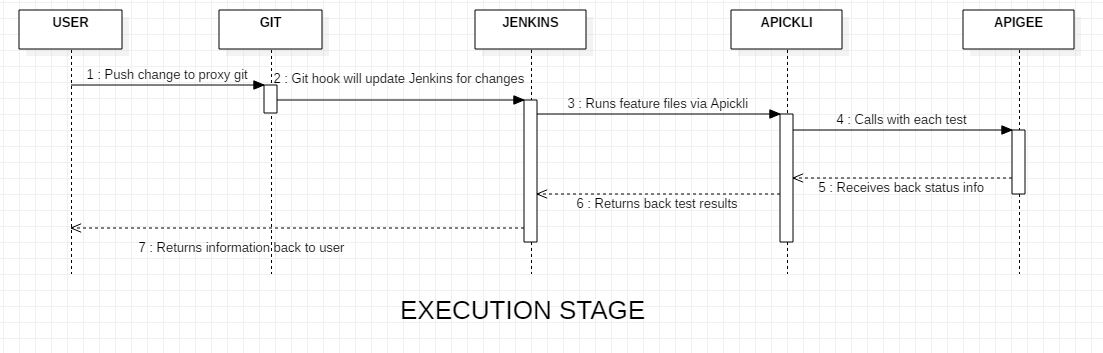
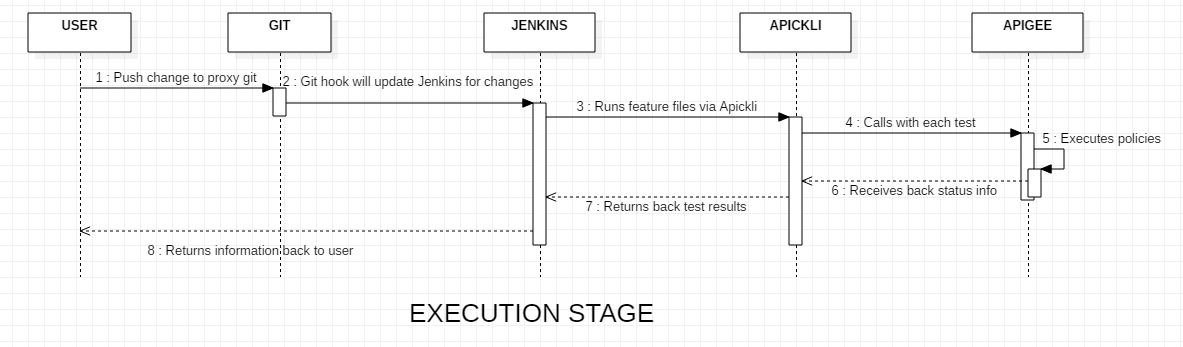
Updated Stage documentation

diff --git a/asvp-server/controller.js b/asvp-server/controller.js
@@ -56,6 +56,7 @@ router.get('/run', (req, res) => {
   if (req.query.id != null){
     var id = req.query.id;
   } else{
+    // No request was included
     return res.status(400).json({
       "Status Code": "400 BAD REQUEST",
       "Error": "No ID was included in the request. Please refer to the documentation for more help.",
@@ -65,9 +66,11 @@ router.get('/run', (req, res) => {
 
   // Run Cucumber-js on the feature file in the folder per given ID
   let featureFilePath = `output/${id}/features/test.feature`;
+
+  // Check if feature file exists in folder of requested user
   if (fs.existsSync(`${__dirname}/${featureFilePath}`)){
     try {
-      console.log(`Executing Cucumber tests for ID ${id} @ file location ${featureFilePath}`)
+      console.log(`Executing --> tests for ID ${id} @ ${featureFilePath}`)
       var script = exec(`cd ${__dirname} && npx cucumber-js ${featureFilePath} -f json:output/${id}/report.json`,
         (error, stdout, stderr) =>{
           res.sendFile(`${__dirname}/output/${id}/report.json`);
@@ -81,6 +84,7 @@ router.get('/run', (req, res) => {
       console.log(err)
     }
   } else {
+    // No feature file was found
     return res.status(400).json({
       "Status Code": "400 BAD REQUEST",
       "Error": `No feature file was found for the given ID (${id}). Please generate the test file first and receive your ID. Please refer to the documentation for more help`,
@@ -132,7 +136,7 @@ router.post('/generate', (req, res) =>{
   // Destructure the Given, When, and Then sections of the premade Gherkin lines from a file on the server
   let {Given, When, Then} = JSON.parse(fs.readFileSync(__dirname+'/gherkin-tests.json'));
 
-  // The config class is used to store all configuration data
+  // The config class is used to store all test configuration data
   class Config {
     constructor() {
       this.proxyURL = "";

diff --git a/README.md b/README.md
@@ -80,34 +80,42 @@ Below is a diagram that illustrates two main steps in the overall flow amongst t
  <p align="center">
  <img src="https://github.com/rpierz-pk/asvp/blob/master/asvp-server/images/test-generation-stage-uml.png?raw=true">
  </p>
+
 - Step 1:
-The user enters in information into a provided UI. This narrows down the users choice to only necessary information.
+    The user enters general information about the proxy they wish to test (i.e. Proxy URL and base path), the parameters that the server will include with every request, the endpoint to send the request to alongside the HTTP method, as well as the expected response for each test from the Apigee proxy. 
 - Step 2: 
-	The UI makes a POST request containing the information provided by the user to the NodeJS server to be furthered processed.
+	The UI makes a POST request containing the test configuration data and user ID to the NodeJS backend server.
 - Step 3:
-	The NodeJS server generates the init.js file based on information provided by the end users.
+	The NodeJS server bootstraps the folder structure necessary to run cucumber tests, then writes the ProxyURL from the incoming request to an initialization file (init.js)
 - Step 4:
-	The NodeJS server parses the data contained in the request and collates the necessary lines of Gherkin text from a JSON file to create a feature file.
+	The NodeJS server parses the configuration contained in the incoming request and collates the necessary lines of Gherkin text from a JSON file, replacing the placeholder values with configuration from the incoming request, to create a feature file.
 - Step 5:
 	This step may not be implemented.
+- Step 6:
+    The NodeJS server sends a response back to the UI containing the ID of the user as well as the text of the feature file that the server created.
 
 
 ## Execution Stage
  <p align="center">
  <img src="https://github.com/rpierz-pk/asvp/blob/master/asvp-server/images/execution-stage-uml.png?raw=true">
  </p>
-- Step 1
-The user begins by interacting with the UI to select a suite of pre-built tests. They are required to enter general information about the proxy, such as the Proxy URL. These tests require the user to input specific data that is specific for each test about the proxy and the policy itself. (To find specific data go to prerequisite items section above)
-- Step 2
-The UI sends off this information to NodeJS to be processed.
-- Step 3
-NodeJS modifies existing pre-built files to generate the Jenkins Test Section, Apickli configuration files, and Feature file, which contains the test.
-- Step 4
-The UI returns the Jenkin section for Jenkins Integration, the Apickli configuration file for Apickli Set up, and finally, the Generated Feature File that has the Apickli/Cucumber test to run.
-- Step 5
-The user imports the file and configures the Jenkins Pipeline to run the generated tests. The user needs to make sure to configure their Pipeline correctly by placing the stage provided by the ASVP Framework after the proxy deployment stage. Once the user imports the test, they can generate the testing file structure by running the Pipeline once. The Pipeline then grabs the file location, which is imported by the UI, from the configuration file.
-- Step 6
-The tests run via automation in the Jenkins pipeline and return the results to the end-user. This step can be re-run repeatedly 
+
+- Step 1:
+An Apigee proxy developer pushes new changes of an Apigee proxy to Github.
+- Step 2:
+A Githook from Github makes a POST request to Jenkins which triggers the Jenkins pipeline to initiate the build process.
+- Step 3:
+A Jenkinsfile stage executes the Cucumber-js application in a Node runtime environment. 
+- Step 4:
+Apickli makes an HTTP request to the Apigee proxy for each test, including all parameters that were included in the feature file.
+- Step 5:
+Apigee processes the request, executing all policies that the developer has included in the proxy. Any security implementation, if properly configured, rejects any malicious request.
+- Step 6:
+After the proxy has completed, Apigee returns back an HTTP response to Apickli for each test.
+- Step 7:
+Apickli confirms whether the output of the requests match what the expected output of the tests was that the user included.
+-Step 8:
+Jenkins converts the output of the Apickli tests into an HTML report that displays the passing percentage of the requests as well as the execution of each step. 
 
 
 ## Use Cases
@@ -169,6 +177,20 @@ To run the ASVP framework on a local machine, you must have the following progra
 
 ##### NodeJS
 You can use any modern version of Node JS from version x.x.x and onward 
+
+### Installation Steps
+Clone the ASVP Github repository on the desired machine. The server has been tested on Windows and Linux systems.
+
+	$ git clone https://www.github.com/rpierz-pk/asvp 
+
+Move into the asvp-server sub-folder
+
+	$ cd asvp/asvp-server
+
+Start the node server
+
+	$ npm start 
+
 
 
 ## Expected Output
